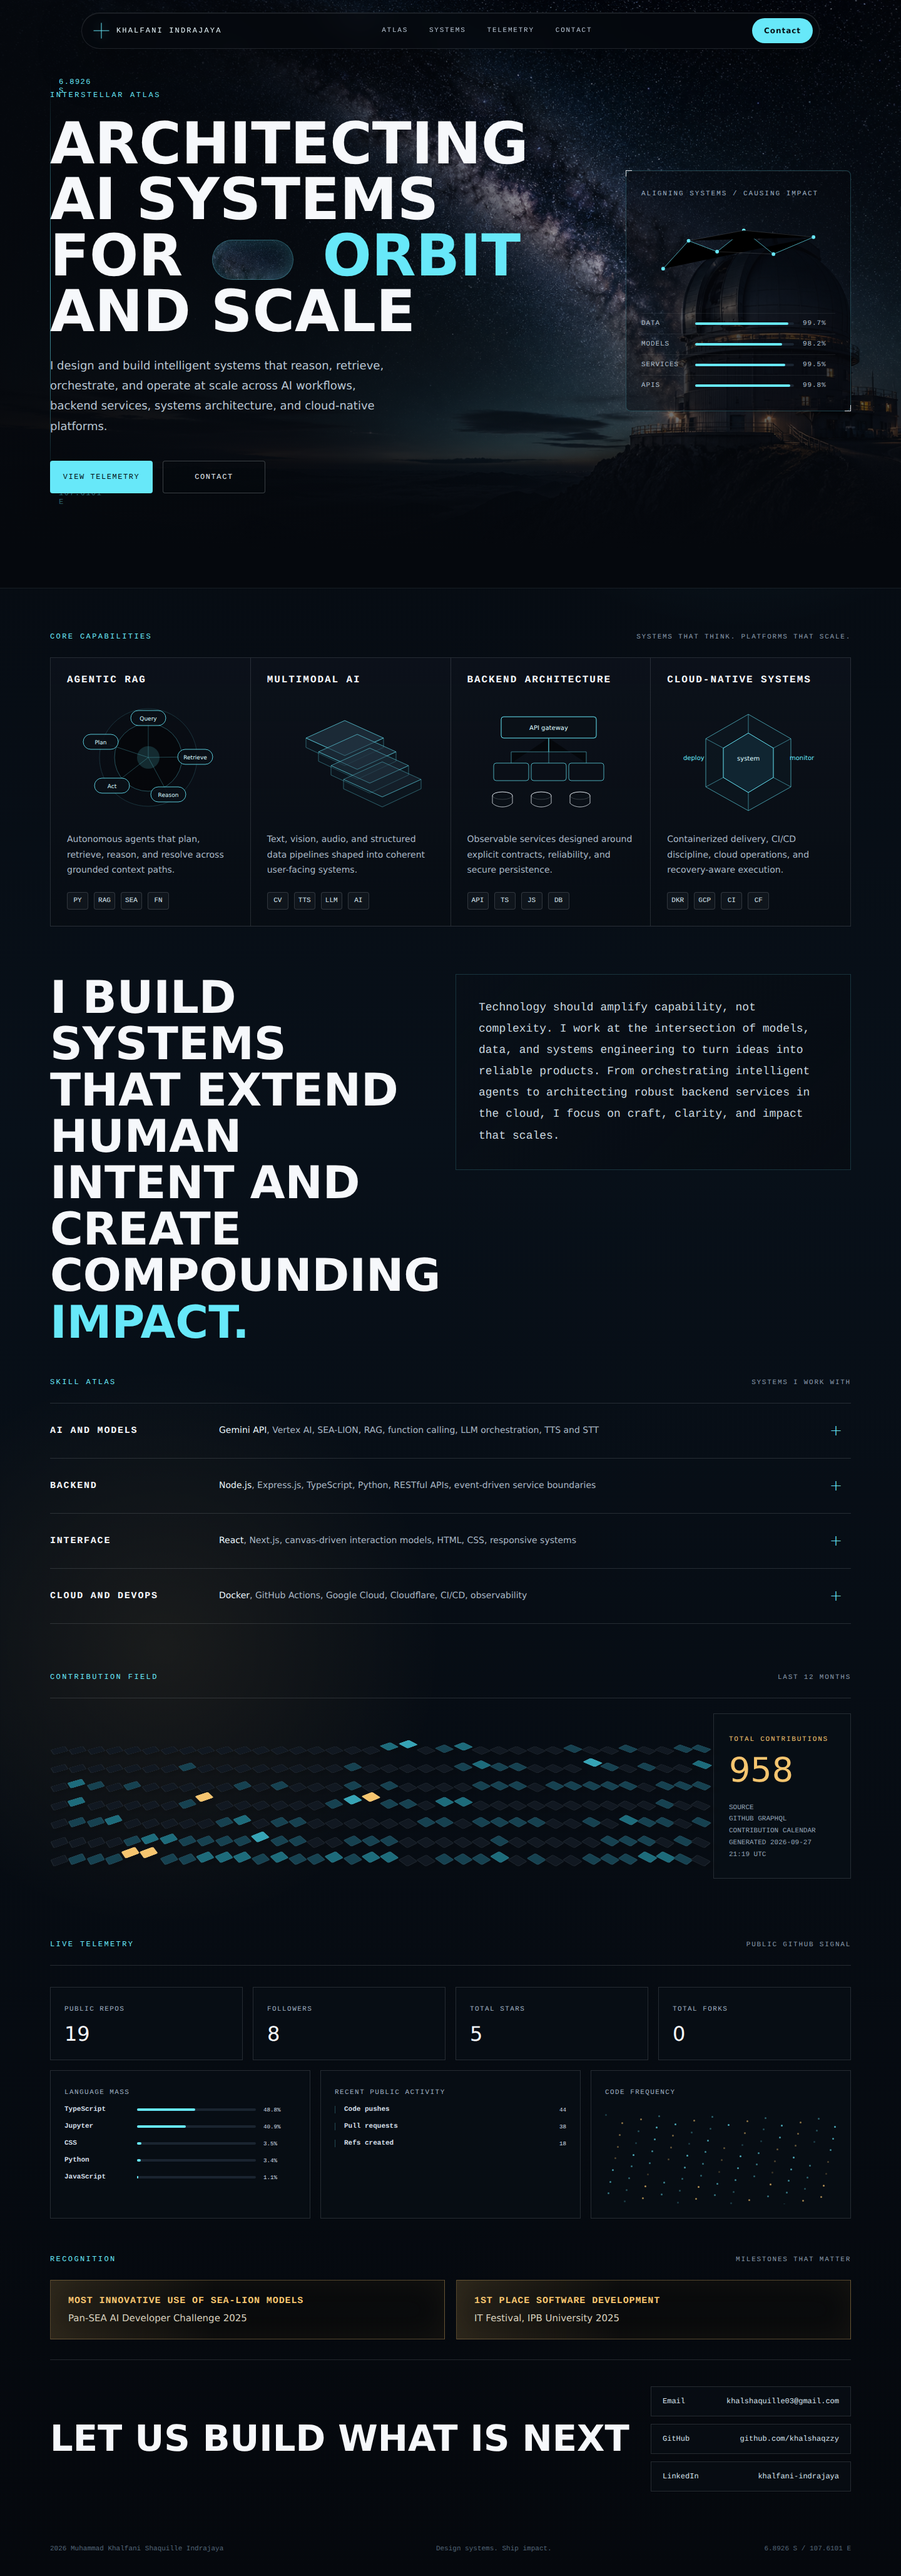
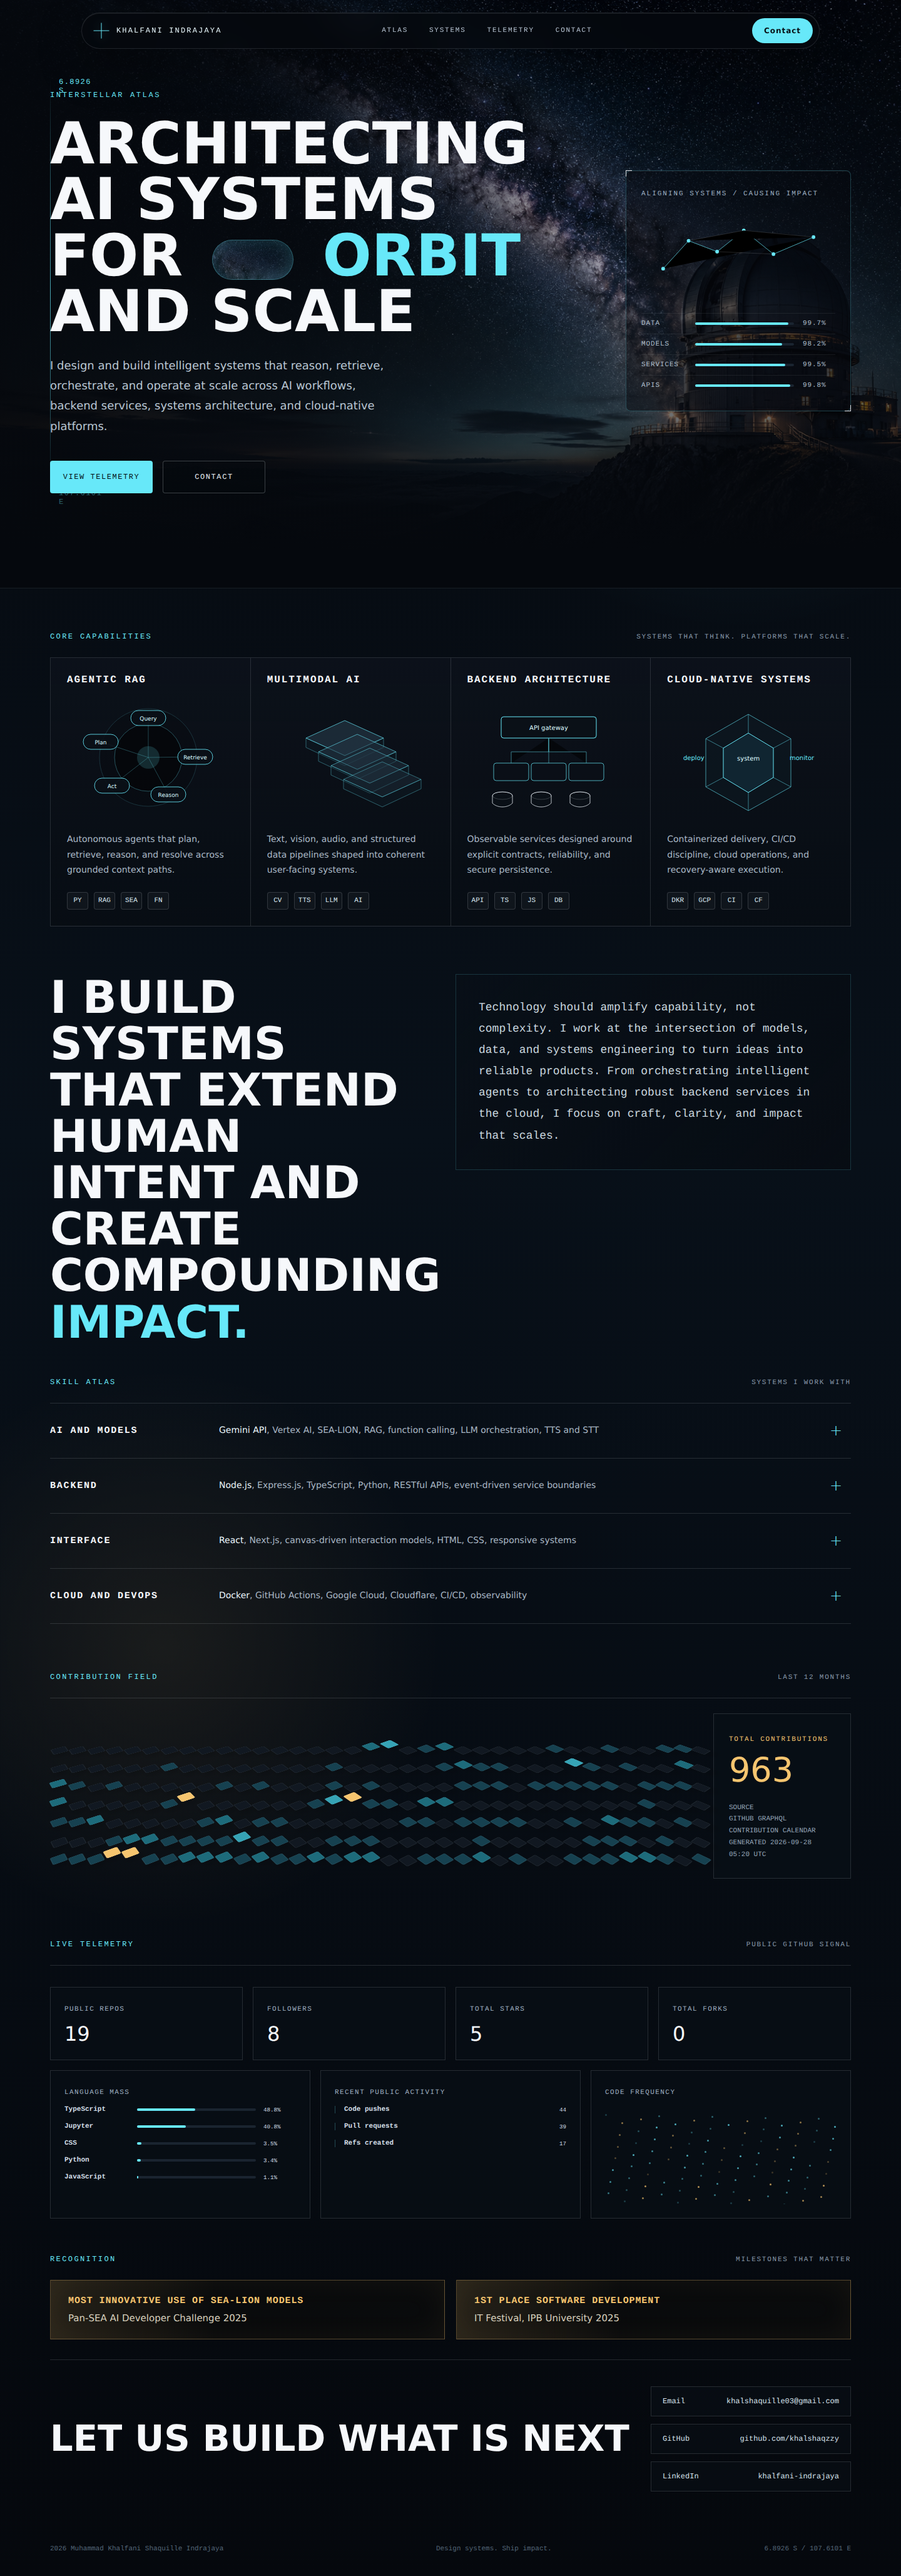
chore: render profile atlas

diff --git a/README.md b/README.md
@@ -1,5 +1,5 @@
 <p align="center">
-  <img src="./assets/profile-atlas.png?v=8d732b2285ae" alt="Interstellar Atlas GitHub profile for Muhammad Khalfani Shaquille Indrajaya" width="100%" />
+  <img src="./assets/profile-atlas.png?v=4e1756b7565e" alt="Interstellar Atlas GitHub profile for Muhammad Khalfani Shaquille Indrajaya" width="100%" />
 </p>
 
 <p align="center">
@@ -10,7 +10,7 @@
 
 <!-- PROFILE_CAPTURE:START -->
 <p align="center">
-  <sub>Rendered from the React / Next Interstellar Atlas source and captured with Playwright. Last generated: 2026-09-27 21:20 UTC</sub>
+  <sub>Rendered from the React / Next Interstellar Atlas source and captured with Playwright. Last generated: 2026-09-28 05:21 UTC</sub>
 </p>
 <!-- PROFILE_CAPTURE:END -->
 
